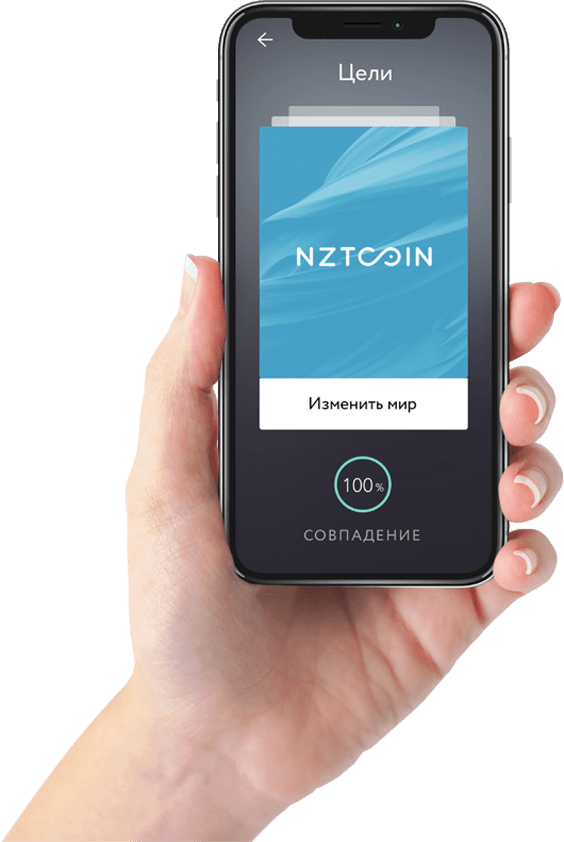
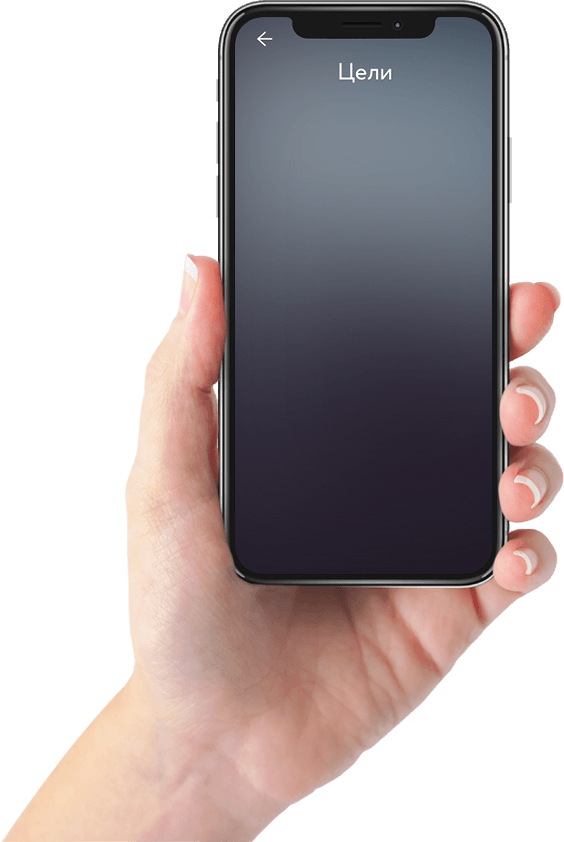
add hand slider

Changed region(s): [[0.4521, 0.1235, 0.844, 0.6485], [0.6028, 0.0618, 0.6933, 0.0926], [0.4521, 0.0309, 0.4823, 0.0618]]

diff --git a/index.html b/index.html
@@ -142,7 +142,8 @@
          data-speed="0.7" alt="city">
     <img src="images/lazy/blank.svg" data-src="images/parallax/circle.png" class="prlx lazy img-shadow b3-prlx-circle"
          data-speed="-0.8" alt="circle">
-    <img src="images/lazy/blank.svg" data-src="images/parallax/img-1.png" class="prlx lazy img-shadow b3-prlx-1 b3-prlx-1--mobile"
+    <img src="images/lazy/blank.svg" data-src="images/parallax/img-1.png"
+         class="prlx lazy img-shadow b3-prlx-1 b3-prlx-1--mobile"
          data-speed="0.8" alt="island">
 
     <div class="block block-3" data-bg="images/block-3/block3_bg.png">
@@ -207,19 +208,25 @@
   </div>
 
   <div class="wrapper">
-    <img src="images/lazy/blank.svg" data-src="images/parallax/img-13.png" class="b4-prlx prlx lazy img-shadow b4-prlx-13"
+    <img src="images/lazy/blank.svg" data-src="images/parallax/img-13.png"
+         class="b4-prlx prlx lazy img-shadow b4-prlx-13"
          data-speed="0.5" alt="travel">
-    <img src="images/lazy/blank.svg" data-src="images/parallax/img-14.png" class="b4-prlx prlx lazy img-shadow b4-prlx-14"
+    <img src="images/lazy/blank.svg" data-src="images/parallax/img-14.png"
+         class="b4-prlx prlx lazy img-shadow b4-prlx-14"
          data-speed="0.8" alt="road">
 
     <div class="block block-4" data-bg="images/block-4/block4_bg.png">
-      <img src="images/lazy/blank.svg" data-src="images/parallax/img-9.png" class="b4-prlx prlx lazy img-shadow b4-prlx-9"
+      <img src="images/lazy/blank.svg" data-src="images/parallax/img-9.png"
+           class="b4-prlx prlx lazy img-shadow b4-prlx-9"
            data-speed="0.8" alt="grass">
-      <img src="images/lazy/blank.svg" data-src="images/parallax/img-10.png" class="b4-prlx prlx lazy img-shadow b4-prlx-10"
+      <img src="images/lazy/blank.svg" data-src="images/parallax/img-10.png"
+           class="b4-prlx prlx lazy img-shadow b4-prlx-10"
            data-speed="0.8" alt="ski">
-      <img src="images/lazy/blank.svg" data-src="images/parallax/img-11.png" class="b4-prlx prlx lazy img-shadow b4-prlx-11"
+      <img src="images/lazy/blank.svg" data-src="images/parallax/img-11.png"
+           class="b4-prlx prlx lazy img-shadow b4-prlx-11"
            data-speed="0.8" alt="tennis">
-      <img src="images/lazy/blank.svg" data-src="images/parallax/img-12.png" class="b4-prlx prlx lazy img-shadow b4-prlx-12"
+      <img src="images/lazy/blank.svg" data-src="images/parallax/img-12.png"
+           class="b4-prlx prlx lazy img-shadow b4-prlx-12"
            data-speed="0.8" alt="speed">
 
       <div class="container block-4__container">
@@ -630,8 +637,35 @@
          data-speed="1.3" alt="app screenshot 7">
     <div class="container block-8__container">
       <div class="block-8__slider">
-        <img src="images/lazy/blank.svg" class="b8-slider lazy" data-src="images/block-8/hand.png"
+        <img src="images/lazy/blank.svg" class="b8-slider-bg lazy" data-src="images/block-8/hand.png"
              alt="slider background"/>
+
+        <div class="b8-slider">
+          <div class="b8-slider__content">
+            <div class="b8-slider__slide">
+              <img src="images/lazy/blank.svg" class="lazy" data-src="images/block-8/slide-1.png"/>
+            </div>
+            <div class="b8-slider__slide">
+              <img src="images/lazy/blank.svg" class="lazy" data-src="images/block-8/slide-2.png"/>
+            </div>
+            <div class="b8-slider__slide">
+              <img src="images/lazy/blank.svg" class="lazy" data-src="images/block-8/slide-3.png"/>
+            </div>
+            <div class="b8-slider__slide">
+              <img src="images/lazy/blank.svg" class="lazy" data-src="images/block-8/slide-4.png"/>
+            </div>
+            <div class="b8-slider__slide">
+              <img src="images/lazy/blank.svg" class="lazy" data-src="images/block-8/slide-5.png"/>
+            </div>
+            <div class="b8-slider__slide">
+              <img src="images/lazy/blank.svg" class="lazy" data-src="images/block-8/slide-6.png"/>
+            </div>
+            <div class="b8-slider__slide">
+              <img src="images/lazy/blank.svg" class="lazy" data-src="images/block-8/slide-7.png"/>
+            </div>
+          </div>
+        </div>
+
       </div>
       <div class="block-8__description b8-desc">
         <img src="images/lazy/blank.svg" class="lazy b8-desc__title" data-src="images/block-8/future_text.png"
@@ -790,7 +824,8 @@
   <div class="modal">
     <button name="close" class="modal__close">
       <svg xmlns="http://www.w3.org/2000/svg" width="14.35" height="14.4">
-        <path fill-rule="evenodd" d="M9.28 7.2l4.6 4.6a1.492 1.492 0 1 1-2.12 2.1l-4.6-4.6-4.6 4.6a1.492 1.492 0 1 1-2.12-2.1l4.6-4.6-4.6-4.6A1.492 1.492 0 1 1 2.56.5l4.6 4.6 4.6-4.6a1.492 1.492 0 1 1 2.12 2.1z"/>
+        <path fill-rule="evenodd"
+              d="M9.28 7.2l4.6 4.6a1.492 1.492 0 1 1-2.12 2.1l-4.6-4.6-4.6 4.6a1.492 1.492 0 1 1-2.12-2.1l4.6-4.6-4.6-4.6A1.492 1.492 0 1 1 2.56.5l4.6 4.6 4.6-4.6a1.492 1.492 0 1 1 2.12 2.1z"/>
       </svg>
     </button>
     <h3 class="modal__header">

diff --git a/styles/block-8.less b/styles/block-8.less
@@ -37,6 +37,7 @@
   }
 
   &__slider {
+    position: relative;
     @media (min-width: @media-medium) {
       margin-right: 3%;
     }
@@ -70,12 +71,67 @@
   }
 }
 
-.b8-slider {
+.b8-slider-bg {
   flex: 1;
   margin-left: -11%;
 
   @media (min-width: @media-medium) {
     margin-left: 0;
+  }
+}
+
+.b8-slider {
+  position: absolute;
+  justify-content: center;
+  top: 15%;
+  right: 16%;
+  width: 38%;
+
+  @media (max-width: @media-medium) {
+    right: 28.5%;
+    width: 36%;
+  }
+
+  @media (max-width: @media-small) {
+    right: 28.5%;
+    width: 36%;
+    top: 13%;
+  }
+
+  &__slide {
+    img {
+      opacity: 1;
+    }
+    &.active {
+      img {
+        animation: show-screenshot .25s 1 forwards;
+      }
+    }
+    &.remove {
+      img {
+        animation: hide-screenshot .25s 1 forwards;
+      }
+    }
+  }
+  button {
+    display: none;
+  }
+}
+
+@keyframes show-screenshot {
+  from {
+    transform: scale(.9);
+  }
+  to {
+    transform: scale(1);
+  }
+}
+@keyframes hide-screenshot {
+  from {
+    transform: scale(1);
+  }
+  to {
+    transform: scale(.9);
   }
 }
 

diff --git a/scripts/slider.ts b/scripts/slider.ts
@@ -24,6 +24,7 @@ enum selectors {
 
 export class Slider {
   animationTime = 400;
+  interval = 4000;
   container: HTMLElement;
   slides: HTMLCollection;
   buttonPrev = parseDom(leftArrow) as HTMLButtonElement;
@@ -31,10 +32,12 @@ export class Slider {
   activeSlide: Element;
   timer: number;
 
-  constructor(selector) {
+  constructor(selector, options: any = {}) {
     this.container = document.querySelector(selector);
     this.container.classList.add(selectors.slider);
     this.slides = this.container.firstElementChild.children;
+
+    if (options.interval) this.interval = options.interval;
 
     this.initActiveSlide();
     this.init();
@@ -84,7 +87,7 @@ export class Slider {
       if (!this.timer) {
         this.restartTimer();
       }
-    } else if(this.timer) {
+    } else if (this.timer) {
       this.stopTimer();
     }
   };
@@ -118,6 +121,6 @@ export class Slider {
 
   private restartTimer = () => {
     this.stopTimer();
-    this.timer = setInterval(this.next, 4000);
+    this.timer = setInterval(this.next, this.interval);
   }
 }

diff --git a/scripts/index.ts b/scripts/index.ts
@@ -23,6 +23,7 @@ import {LazyLoading} from "./lazy-loading";
 const slider1 = new Slider('.b1-slider');
 const slider3 = new Slider('.b3-slider');
 const slider4 = new Slider('.b4-slider');
+const slider5 = new Slider('.b8-slider', {interval: 3000});
 
 new LazyLoading();
 new Parallax();
